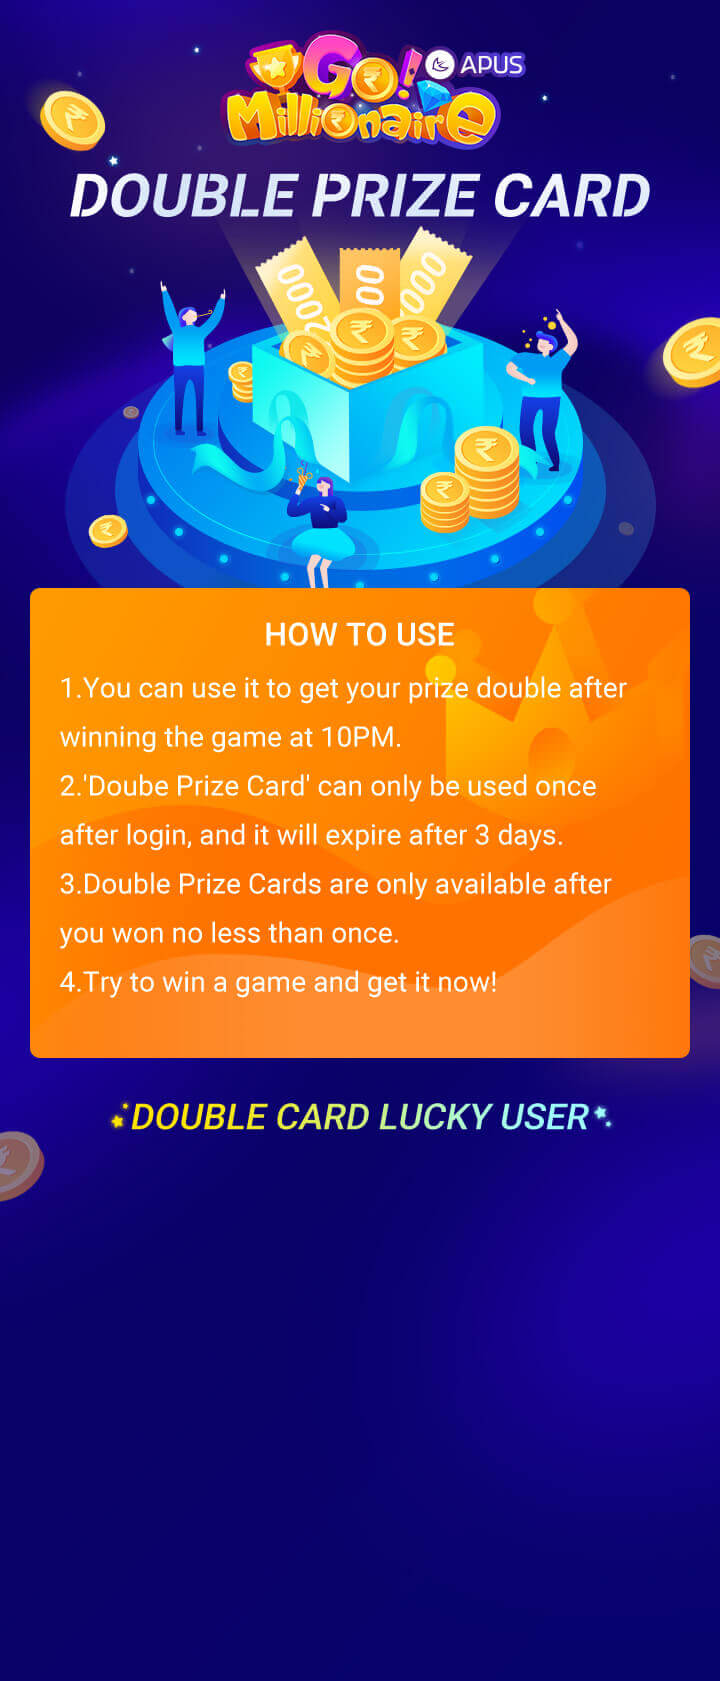
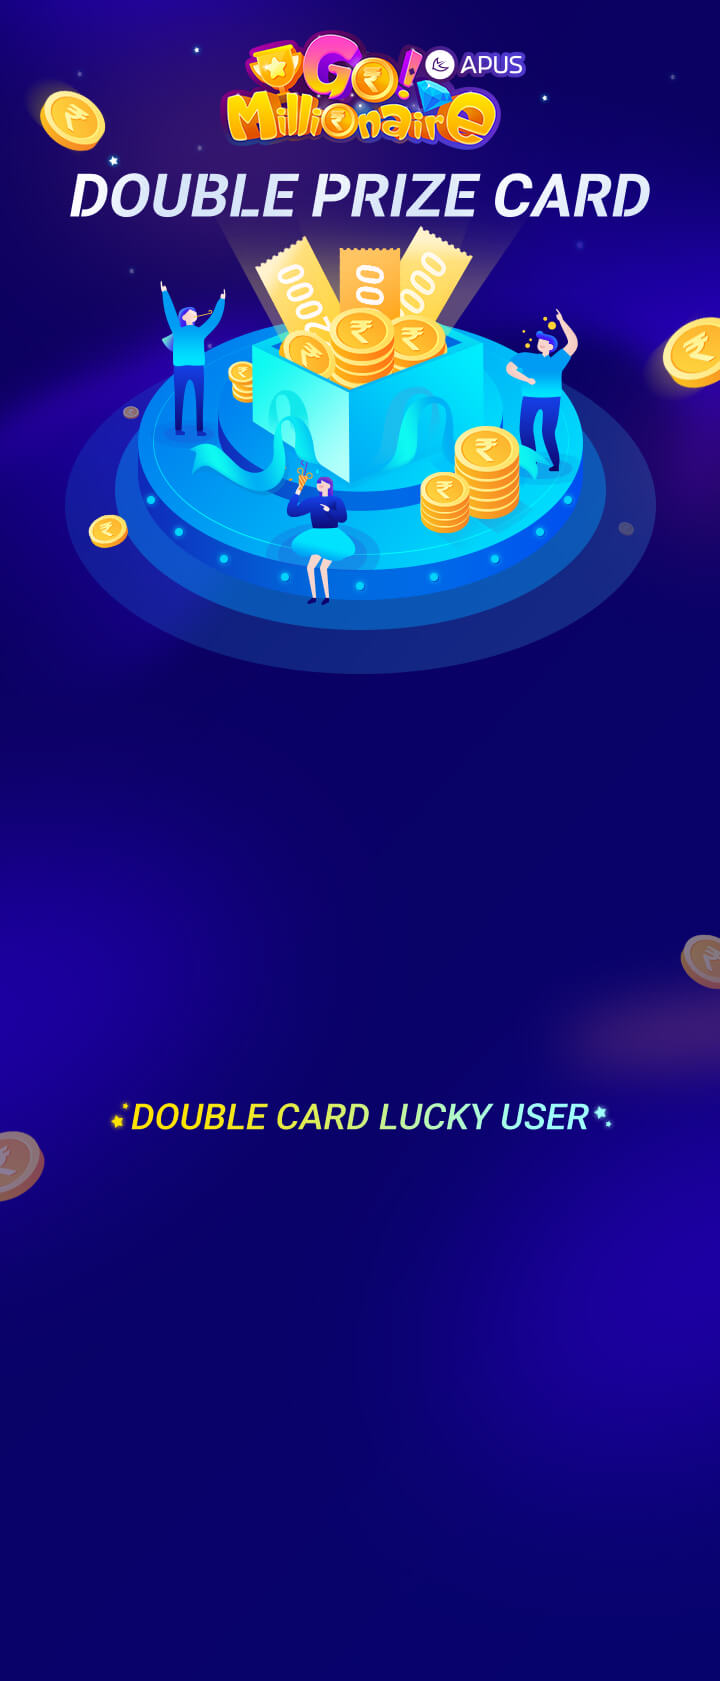
修改双倍卡页面规则

Changed region(s): [[0.0306, 0.3403, 0.9778, 0.6805], [0.4889, 0.0619, 0.55, 0.0928]]

diff --git a/src/views/DoubleRewardCard.vue b/src/views/DoubleRewardCard.vue
@@ -1,6 +1,12 @@
 <template>
   <div class="double-reward-card">
     <BackArrow class="double-reward-card__back"></BackArrow>
+      <div class="double-reward-rule">
+        <h2>HOW TO USE</h2>
+        <p>1. Double Prize Cards are only available after you won more than once at 10PM before today.</p>
+        <p>2. With it, you prize will double after you win at the 10PM game in 3 days.</p>
+        <p>3. A 'Doube Prize Card' can only be used after login, and it will expire after 3 days.</p>
+      </div>
       <div class="double-reward-list">
           <div class="double-reward-list_item"
           v-for="user in userList"
@@ -22,8 +28,7 @@ export default {
   name: 'DoubleRewardCard',
   data () {
     return {
-      userList: [
-      ]
+      userList: []
     }
   },
   components: {
@@ -48,30 +53,51 @@ export default {
 <style lang="less" scoped>
 .double-reward {
   position: relative;
+  &-rule {
+    width: 660px;
+    height: 470px;
+    border-radius: 10px;
+    overflow: hidden;
+    padding: 0 20px 20px;
+    background-image: url('../assets/images/double-rule-bg.jpg');
+    background-size: cover;
+    color: #fff;
+
+    h2 {
+      text-align: center;
+      font-size: 32px;
+      margin: 34px 0 28px;
+      font-family: 'Roboto', Arial, serif;
+    }
+
+    p {
+      font: normal 28px/1.8 'Roboto', Arial, serif;
+    }
+  }
   &-card {
     width: auto;
     height: 1681px;
     background-image: url('../assets/images/double-reward-bg.jpg');
     background-repeat: no-repeat;
     background-size: cover;
-    padding: 1200px 30px 0;
+    padding: 590px 30px 0;
   }
   &-card__back {
     position: absolute;
     top: 25px;
     left: 30px;
-    
   }
   &-list {
     display: flex;
     flex-wrap: wrap;
     justify-content: space-around;
     width: 660px;
-    height: 480px;
+    height: 500px;
     background-color: rgba(255,255,255, .16);
     border-radius: 10px;
     padding: 10px 30px 0;
     overflow-y: scroll;
+    margin-top: 110px;
   }
 
   &-list_item {
@@ -98,7 +124,6 @@ export default {
       max-width: 130px;
       float: left;
     }
-
   }
 }
 </style>
